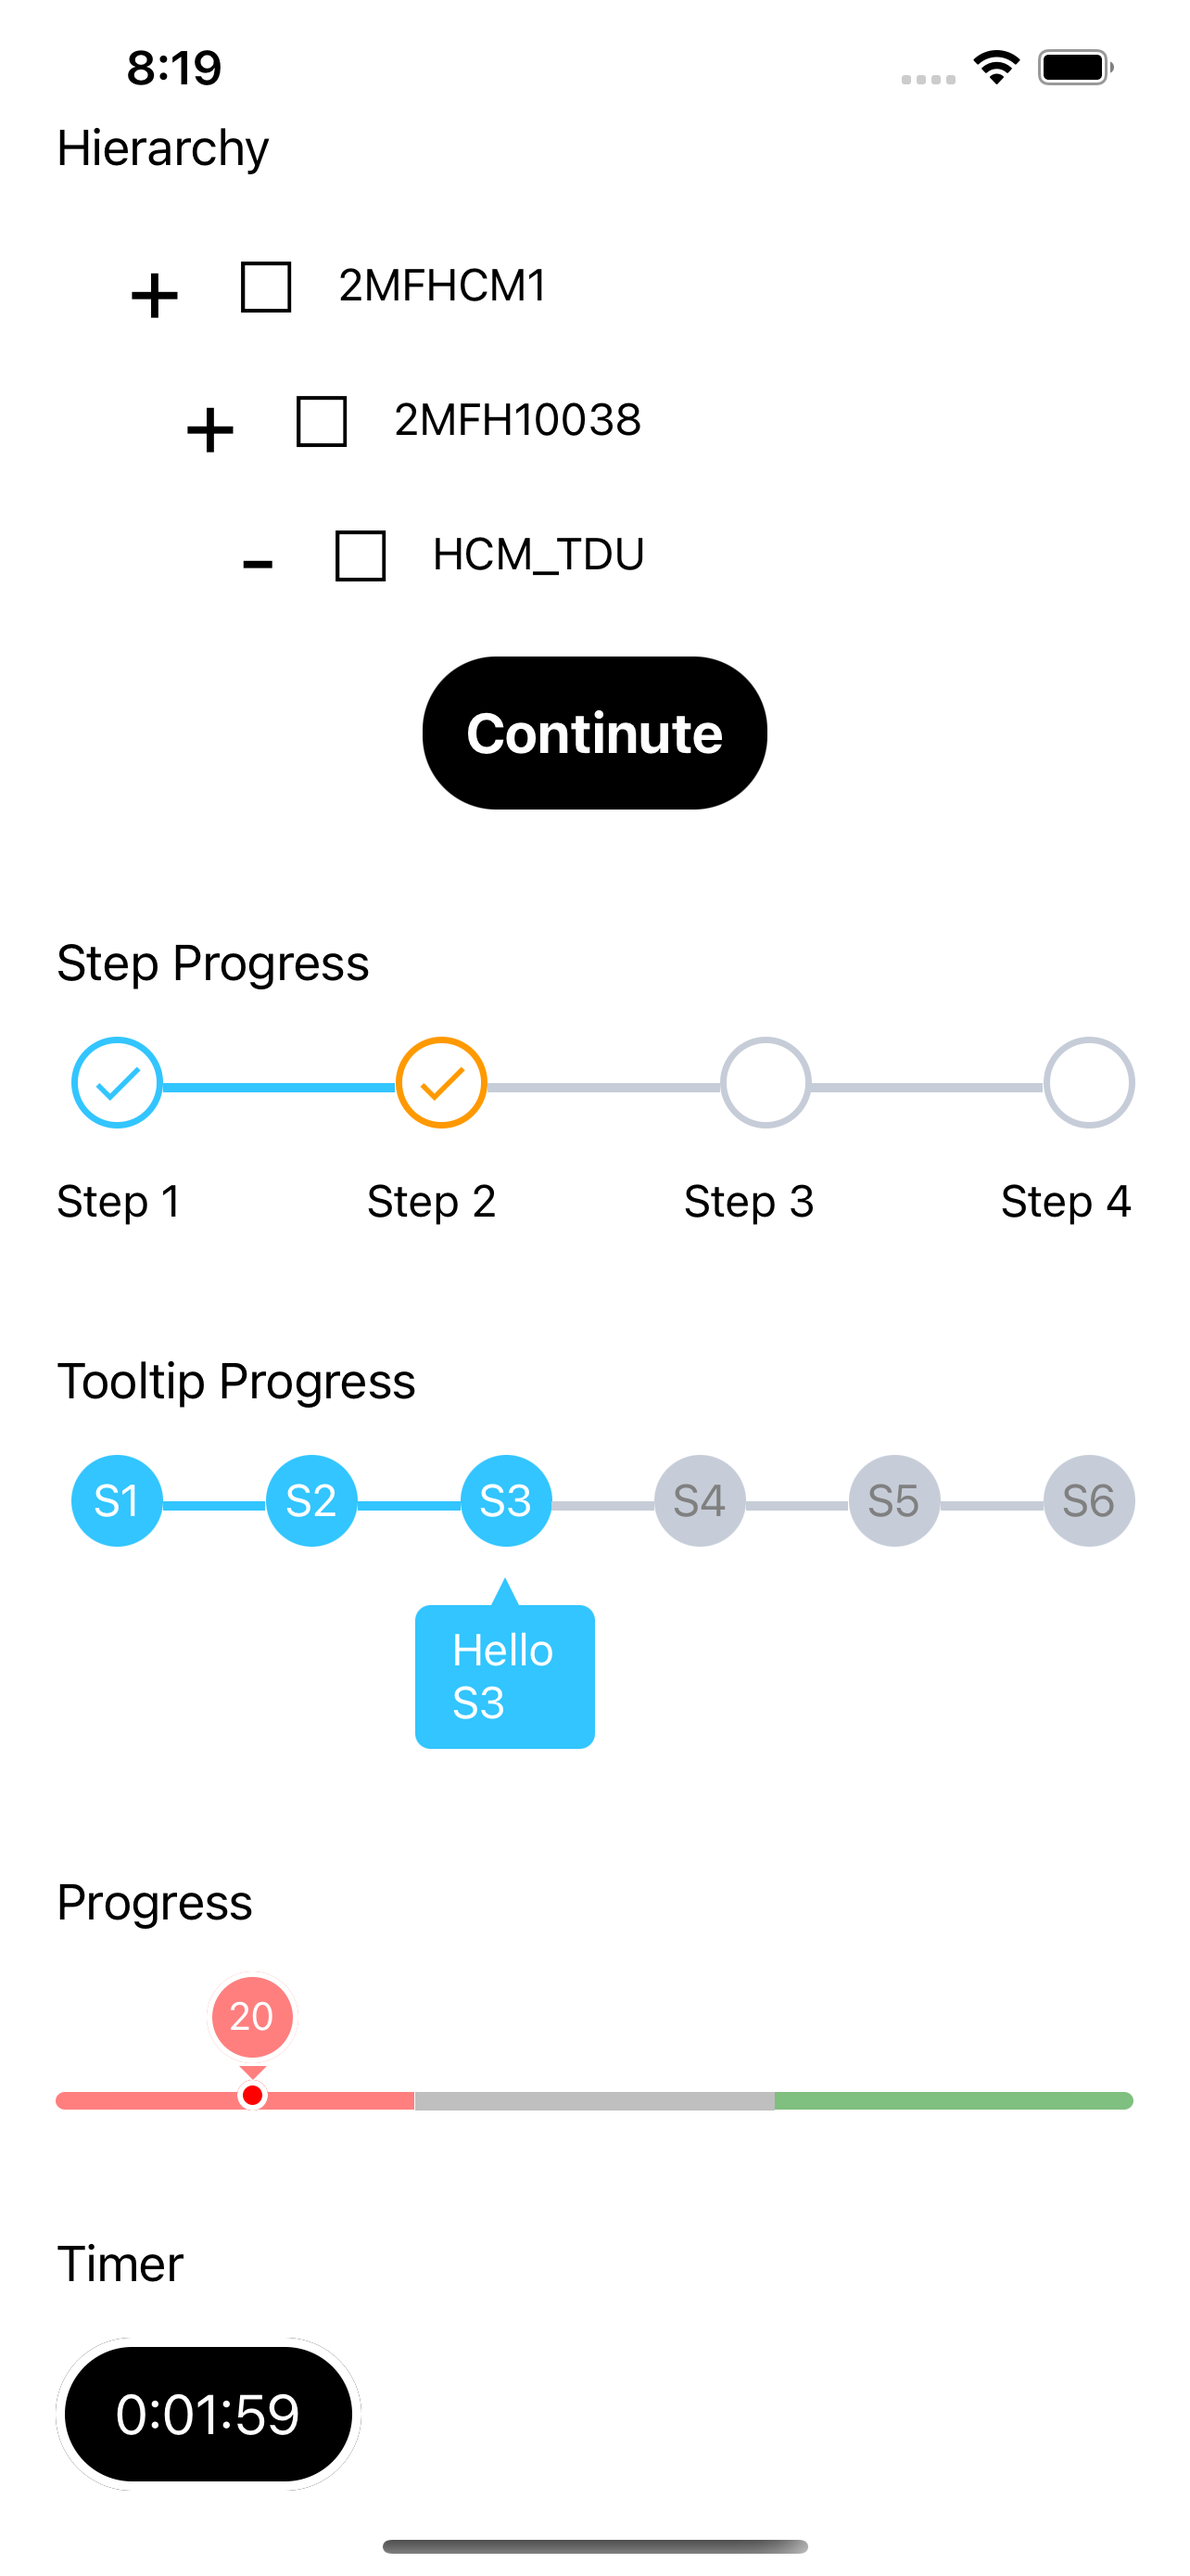
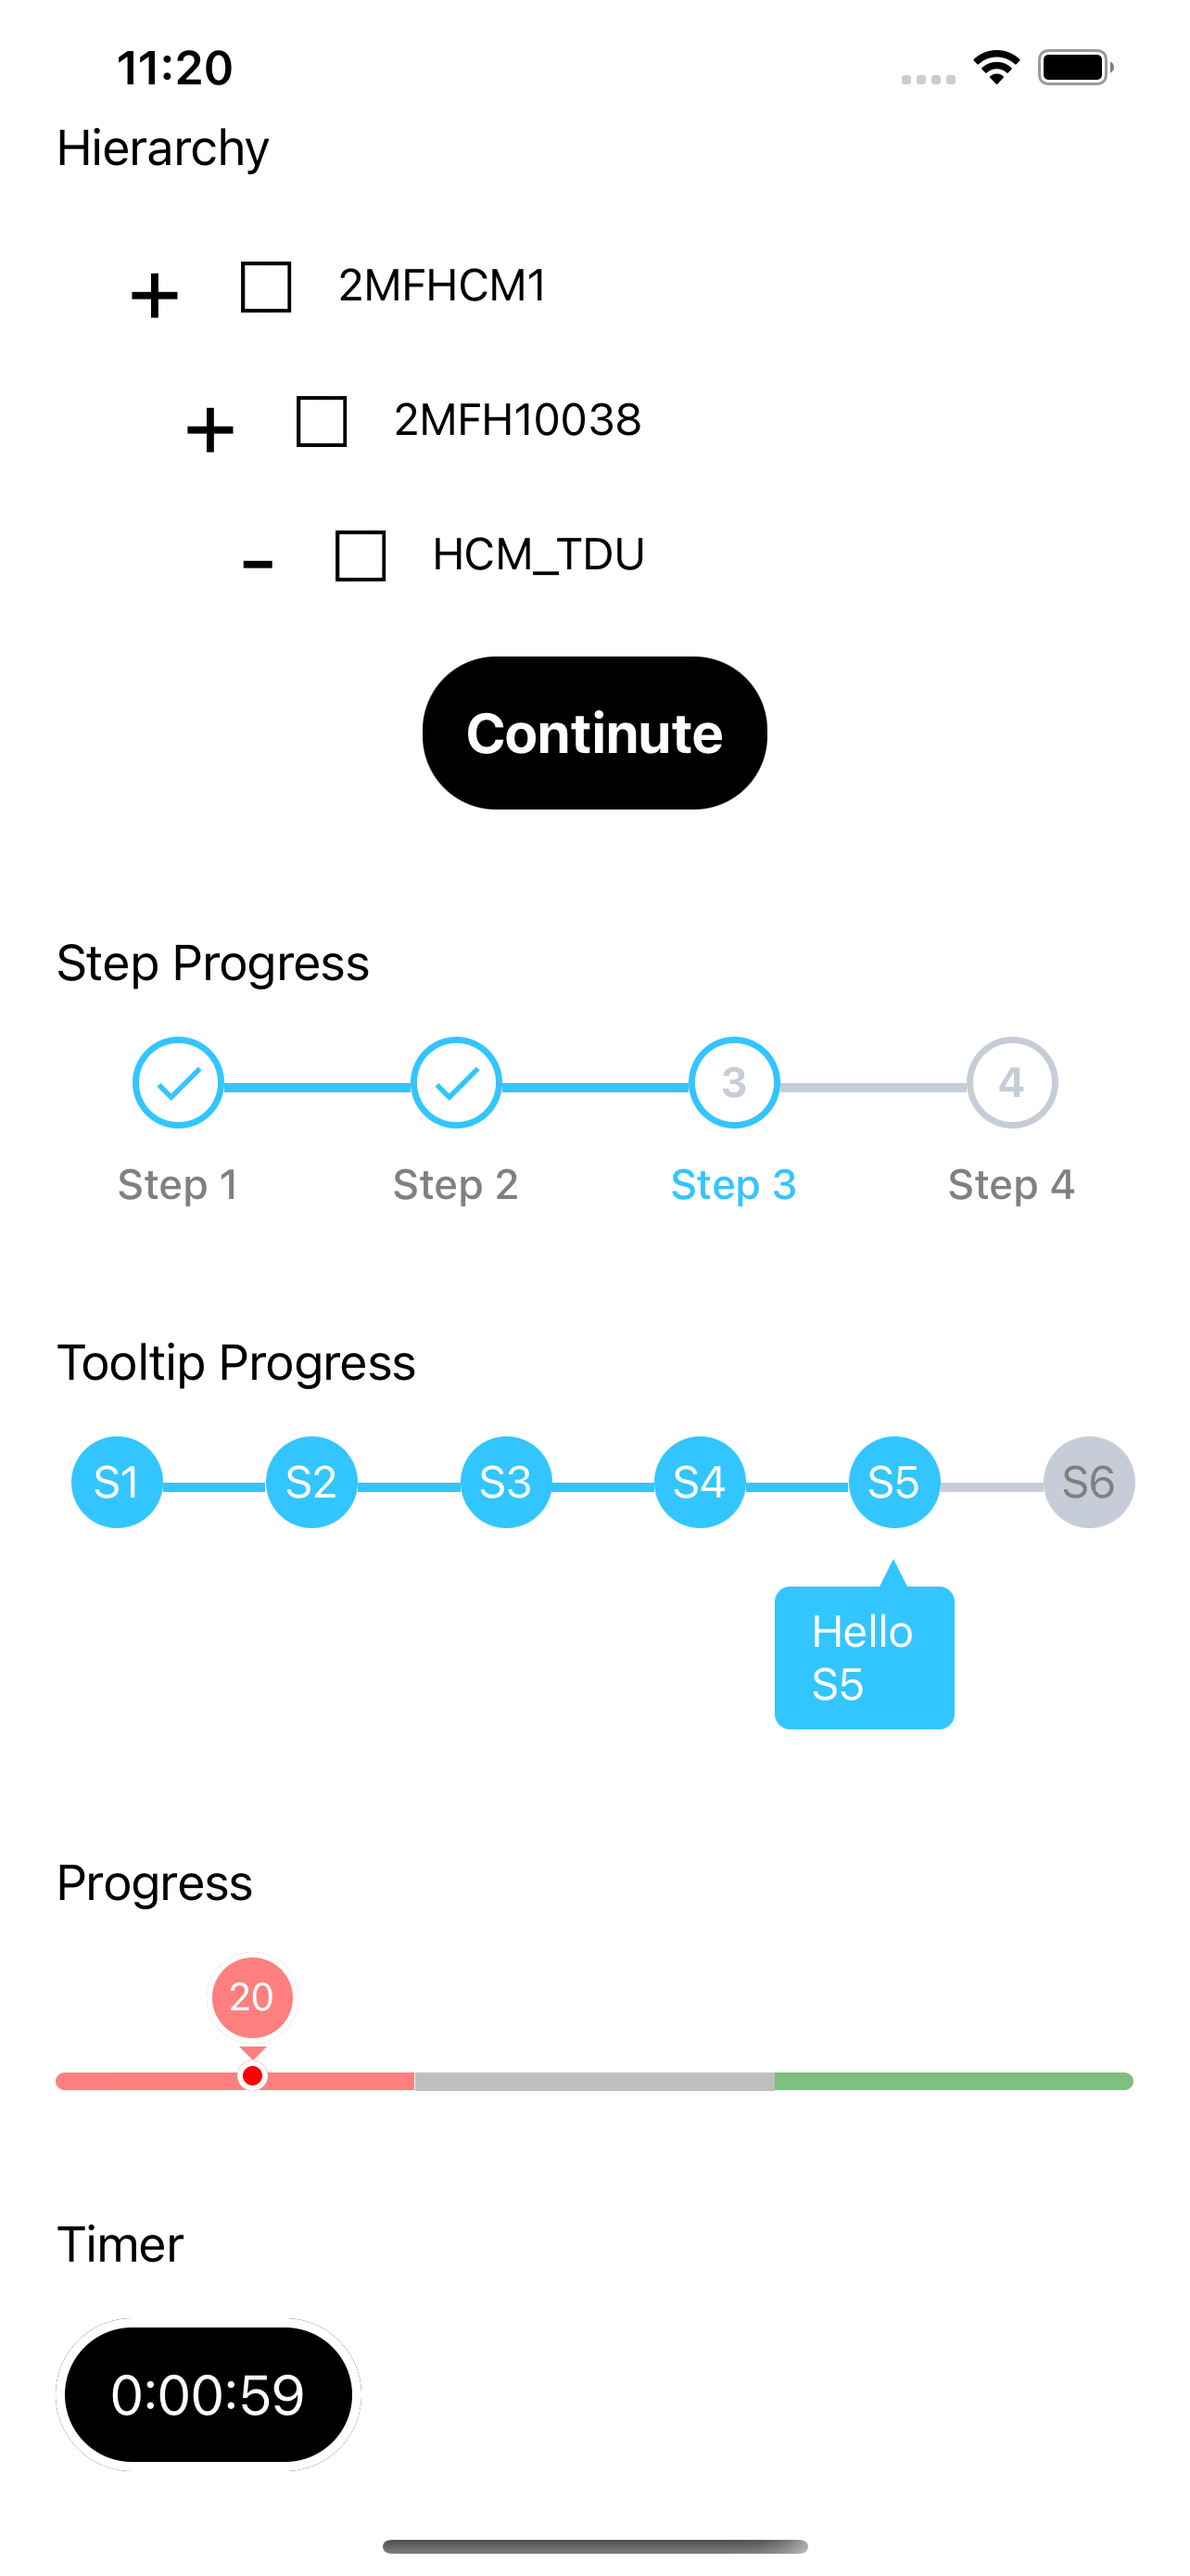
clean code

diff --git a/example/App.js b/example/App.js
@@ -130,7 +130,7 @@ const MainScreen = props => {
               {stage: 'S2', text: 'Hello S2', status: true},
               {stage: 'S3', text: 'Hello S3', status: true},
               {stage: 'S4', text: 'Hello S4', status: true},
-              {stage: 'S5', text: 'Hello S5', status: false},
+              {stage: 'S5', text: 'Hello S5', status: true},
               {stage: 'S6', text: 'Hello S6', status: false},
             ]}
             activeColor="#32C5FF"
